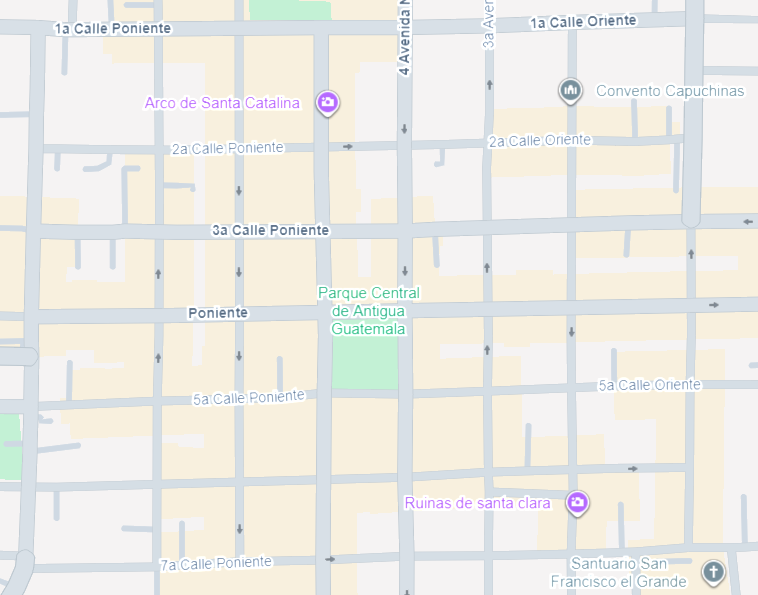
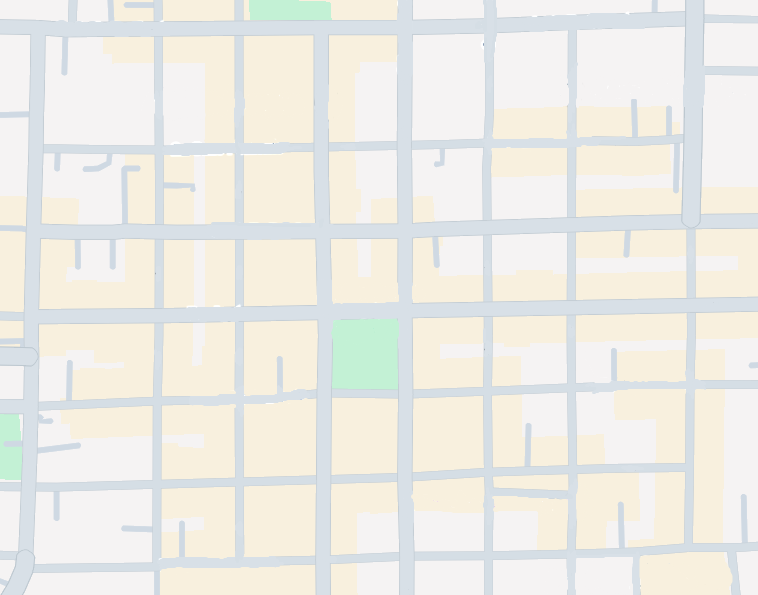
mejoras dijsktra

diff --git a/js/page2.js b/js/page2.js
@@ -1,5 +1,5 @@
 // --- VARIABLES GLOBALES ---
-let endNodeSelect, submitBtn, prevBtn, nextBtn, stepTitle, stepDescription, tableContainer, stepCounter, navControls;
+let categoryFilter, endNodeSelect, submitBtn, prevBtn, nextBtn, stepTitle, stepDescription, tableContainer, stepCounter, navControls;
 
 let pasos = [];
 let pasoActual = 0;
@@ -12,11 +12,11 @@ let edgesDataSet = new vis.DataSet();
 
 // Colores para la visualización
 const COLOR_POI = { border: '#e67e22', background: '#e67e22' };
-const COLOR_NORMAL = { border: '#3498db', background: '#3498db' };
-const COLOR_VISITADO = { border: '#2ecc71', background: '#2ecc71' };
+const COLOR_NORMAL = { border: '#D8E0E7', background: '#D8E0E7' };
+const COLOR_VISITADO = { border: '#2ecc71', background: 'rgba(46, 204, 113, 0.5)' };
 const COLOR_ACTUAL = { border: '#f1c40f', background: '#f1c40f' };
 const COLOR_CAMINO = '#e74c3c';
-const COLOR_ARISTA = '#ffffff'; // Cambiado a blanco para mejor contraste sobre un mapa
+const COLOR_ARISTA = '#D8E0E7'; // Cambiado a blanco para mejor contraste sobre un mapa
 
 let nodeMap = {}; // Mapea ID de nodo a índice (ej: 'GUATEMALA' -> 0)
 let adjacencyMatrix = []; // Matriz de adyacencia para los pesos
@@ -90,15 +90,15 @@ function generarGrafoCuadricula() {
   const aristas = [];
   
   const puntosDeInteres = {
-    // (fila, columna) - Se ha sumado 1 a cada fila para añadir una nueva fila arriba
-    '3,0': 'Pollo Campero',
-    '6,0': 'Entrada',
-    '3,1': 'Mcdonalds',
-    '2,2': 'El viejo cafe',
-    '2,3': 'Subway',
-    '3,3': 'Cafe condesa',
-    '1,5': 'La cuevita de los Urquizu',
-    '5,6': 'El adobe'
+    // (fila, columna): { label, category }
+    '3,0': { label: 'Pollo Campero', category: 'Comida Rápida' },
+    '6,0': { label: 'Entrada', category: 'Punto de Partida' },
+    '3,1': { label: 'Mcdonalds', category: 'Comida Rápida' },
+    '2,2': { label: 'El viejo cafe', category: 'Cafés' },
+    '2,3': { label: 'Subway', category: 'Comida Rápida' },
+    '3,3': { label: 'Cafe condesa', category: 'Cafés' },
+    '1,5': { label: 'La cuevita de los Urquizu', category: 'Comida Tradicional' },
+    '5,6': { label: 'El adobe', category: 'Comida Tradicional' }
   };
   
   // Generar nodos
@@ -110,9 +110,10 @@ function generarGrafoCuadricula() {
       
       nodos.push({
         id: id,
-        label: esPOI ? puntosDeInteres[`${r},${c}`] : ' ', // Solo POIs tienen etiqueta visible
+        label: esPOI ? puntosDeInteres[`${r},${c}`].label : ' ', // Solo POIs tienen etiqueta visible
         x: coords.x,
         y: coords.y,
+        category: esPOI ? puntosDeInteres[`${r},${c}`].category : null,
         type: esPOI ? 'poi' : 'normal',
         // Propiedades para Vis-Network
         shape: 'dot',
@@ -185,6 +186,7 @@ function prepararGrafo() {
 // --- LÓGICA DE LA APLICACIÓN ---
 document.addEventListener('DOMContentLoaded', () => {
   // Referencias a elementos del DOM
+  categoryFilter = document.getElementById('category-filter');
   endNodeSelect = document.getElementById('end-node');
   submitBtn = document.getElementById('submit-btn');
   prevBtn = document.getElementById('prev-btn');
@@ -195,22 +197,42 @@ document.addEventListener('DOMContentLoaded', () => {
   stepCounter = document.getElementById('step-counter');
   navControls = document.getElementById('navigation-controls');
 
-  // Poblar los menús desplegables
-  const puntosDeInteres = graph.nodes.filter(n => n.type === 'poi');
-  puntosDeInteres.forEach(node => {
-    // Usamos el 'name' para el texto visible y el 'id' como valor
-    const option2 = new Option(node.label, node.id);
-    endNodeSelect.add(option2);
-  });
+  // Lógica de los filtros
+  populateCategoryFilter();
+  populateDestinationFilter('Todos');
+  categoryFilter.addEventListener('change', (e) => populateDestinationFilter(e.target.value));
   
   // Eventos de los botones
   submitBtn.addEventListener('click', iniciarVisualizacion);
   prevBtn.addEventListener('click', pasoAnterior);
   nextBtn.addEventListener('click', siguientePaso);
 
+
   prepararGrafo();
   inicializarRed();
 });
+
+function populateCategoryFilter() {
+  const categorias = ['Todos', 'Cafés', 'Comida Rápida', 'Comida Tradicional'];
+  categorias.forEach(cat => {
+    const option = new Option(cat, cat);
+    categoryFilter.add(option);
+  });
+}
+
+function populateDestinationFilter(categoria) {
+  endNodeSelect.innerHTML = ''; // Limpiar opciones anteriores
+  const puntosDeInteres = graph.nodes.filter(n => n.type === 'poi' && n.label !== 'Entrada');
+
+  const nodosFiltrados = (categoria === 'Todos')
+    ? puntosDeInteres
+    : puntosDeInteres.filter(n => n.category === categoria);
+
+  nodosFiltrados.forEach(node => {
+    const option = new Option(node.label, node.id);
+    endNodeSelect.add(option);
+  });
+}
 
 function inicializarRed() {
   nodesDataSet.clear();
@@ -247,6 +269,20 @@ function inicializarRed() {
   network.moveTo({
     position: { x: 379, y: 297.5 }, // Centro del canvas (758/2, 595/2)
     scale: 1.0
+  });
+
+  // Evento de clic en un nodo para seleccionarlo como destino
+  network.on('click', function(params) {
+    if (params.nodes.length > 0) {
+      const nodeId = params.nodes[0];
+      const clickedNode = graph.nodes.find(n => n.id === nodeId);
+      // Solo actuar si es un POI y no es la "Entrada"
+      if (clickedNode && clickedNode.type === 'poi' && clickedNode.label !== 'Entrada') {
+        categoryFilter.value = clickedNode.category;
+        populateDestinationFilter(clickedNode.category);
+        endNodeSelect.value = nodeId;
+      }
+    }
   });
 }
 

diff --git a/page2.html b/page2.html
@@ -22,11 +22,14 @@
   
   <div class="controls">
     <div class="input-group">
+      <label for="category-filter">🍴 Categoría</label>
+      <select id="category-filter"></select>
+    </div>
+    <div class="input-group">
       <label for="end-node">🏁 Destino</label>
       <select id="end-node"></select>
     </div>
     <button id="submit-btn">✨ Visualizar Paso a Paso</button>
-    <button id="export-coords-btn" style="background: #27ae60;">Exportar Coordenadas</button>
   </div>
   
   <div class="visualization-container">
